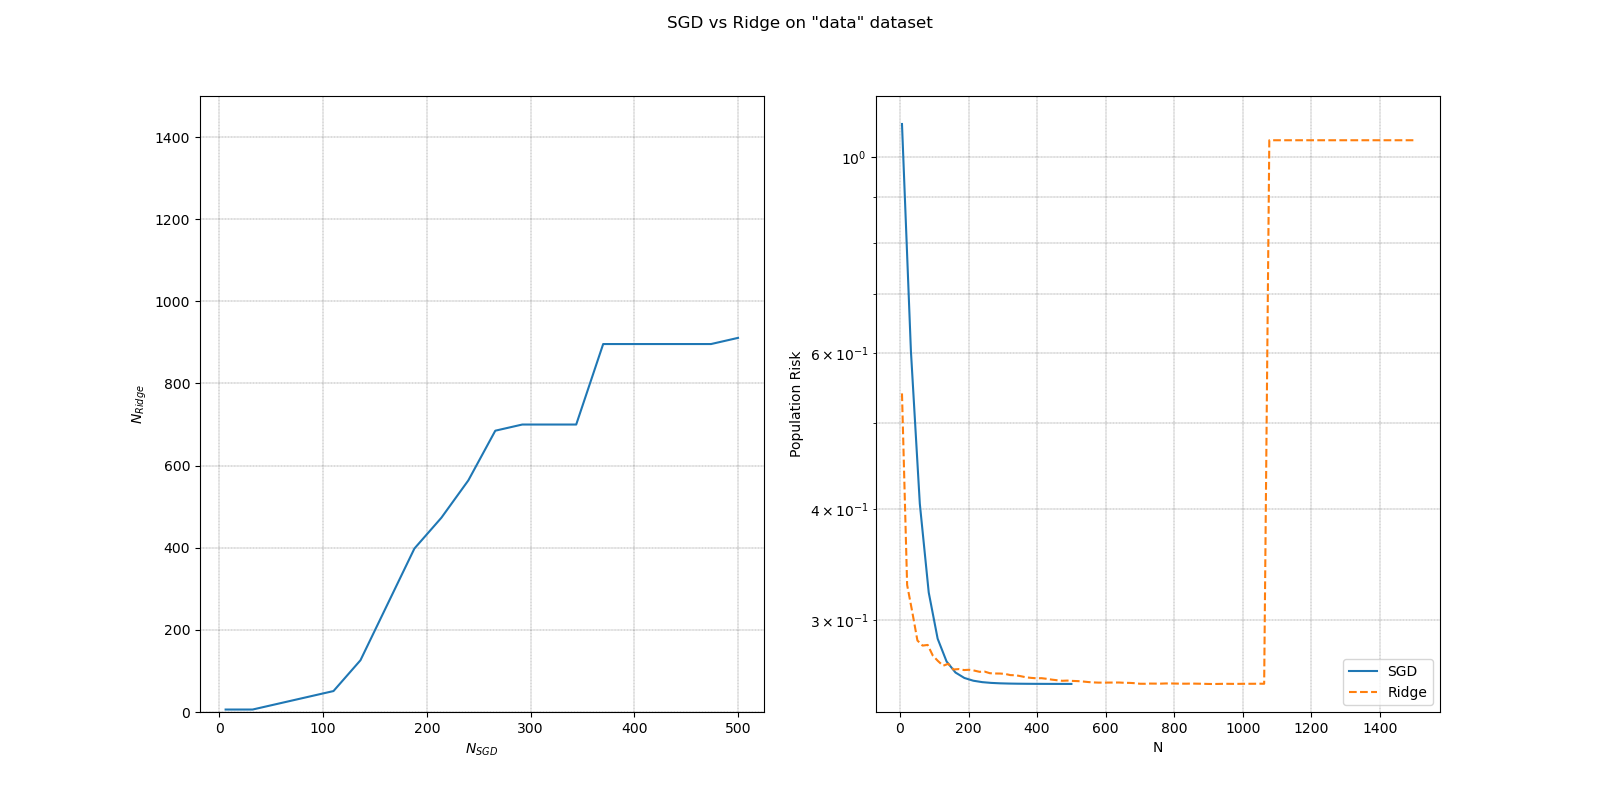
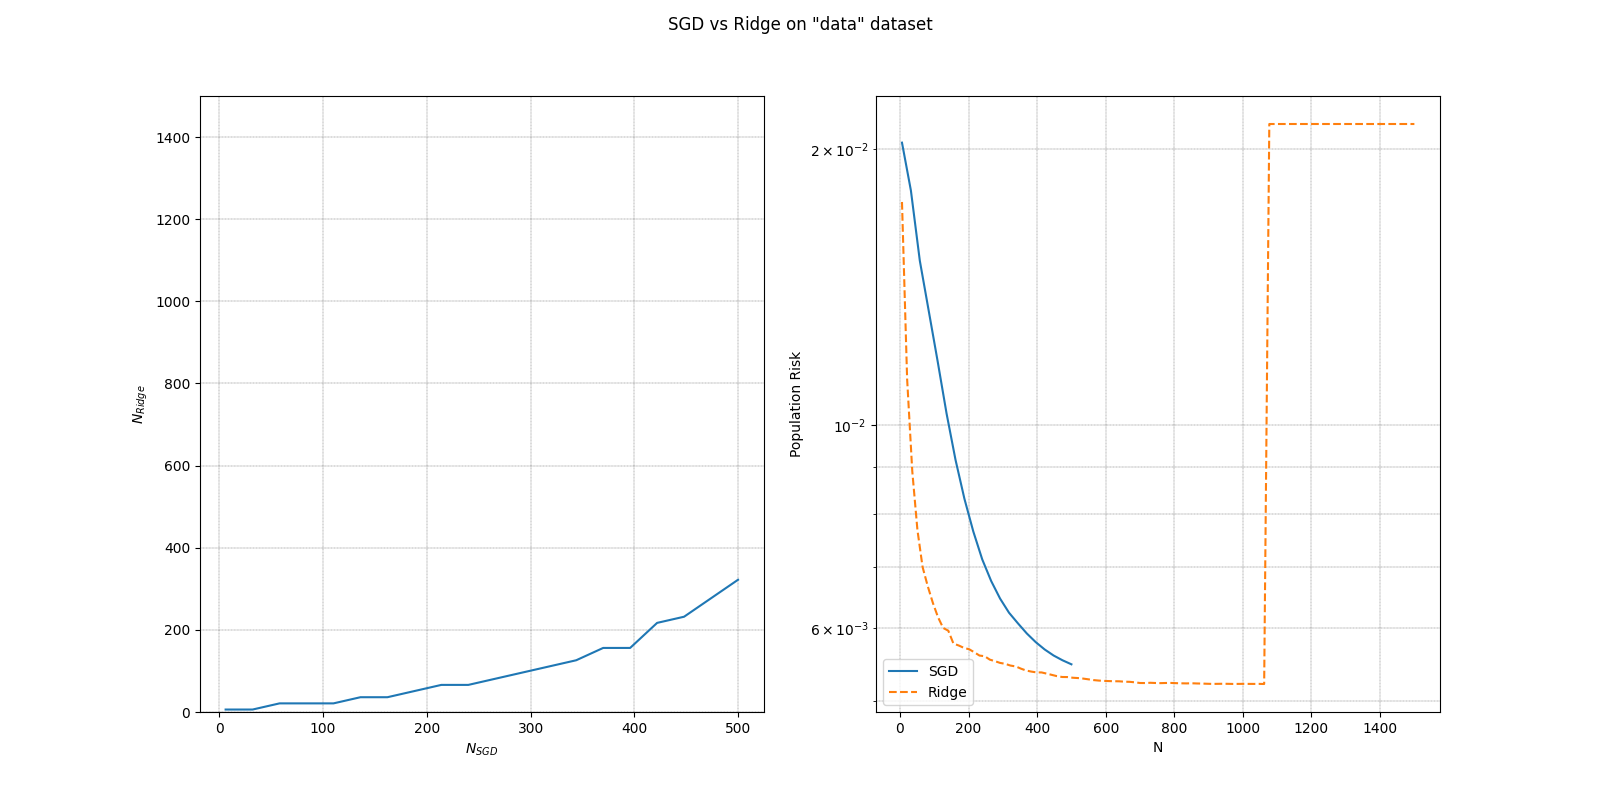
add real-world dataset

diff --git a/benefits_study_real_dataset.py b/benefits_study_real_dataset.py
@@ -101,19 +101,27 @@ else:
     print('Data loaded')
 
 
-fig,axs = plt.subplots(1,2, figsize=(16,8))
-axs[0].plot(n_sgd, y_plot)
-axs[1].plot(n_sgd, sgd_risks, label='SGD')
-axs[1].plot(n_ridge, ridge_risks, linestyle='--', label='Ridge')
-axs[0].grid(color='black', which="both", linestyle='--', linewidth=0.2)
-axs[0].set_xlabel(r'$N_{SGD}$')
-axs[0].set_ylabel(r'$N_{Ridge}$')
-axs[0].set_ylim(0,N_max_ridge)
-axs[1].grid(color='black', which="both", linestyle='--', linewidth=0.2)
-axs[1].legend()
-axs[1].set_yscale('log')
-axs[1].set_xlabel('N')
-axs[1].set_ylabel('Population Risk')
-plt.suptitle(f'SGD vs Ridge on "{DATA_FILENAME}" dataset')
-plt.savefig(SAVE_DIR_FIG+f'benefits_{DATA_FILENAME}')
+# First plot
+plt.figure(figsize=(8, 8))
+plt.plot(n_sgd, y_plot)
+plt.grid(color='black', which="both", linestyle='--', linewidth=0.2)
+plt.xlabel(r'$N_{SGD}$')
+plt.ylabel(r'$N_{Ridge}$')
+plt.ylim(0, N_max_ridge)
+plt.title(f'SGD vs Ridge on Insurance Regression dataset')
+plt.savefig(SAVE_DIR_FIG + 'benefits_Insurance_plot1.png')
 plt.show()
+
+# Second plot
+plt.figure(figsize=(8, 8))
+plt.plot(n_sgd, sgd_risks, label='SGD')
+plt.plot(n_ridge, ridge_risks, linestyle='--', label='Ridge')
+plt.grid(color='black', which="both", linestyle='--', linewidth=0.2)
+plt.legend()
+plt.yscale('log')
+plt.xlabel('N')
+plt.ylabel('Population Risk')
+plt.title(f'SGD vs Ridge on Insurance Regression dataset')
+plt.savefig(SAVE_DIR_FIG + 'benefits_Insurance_plot2.png')
+plt.show()
+

diff --git a/benefits_real_data_set_crossvalidation.py b/benefits_real_data_set_crossvalidation.py
@@ -28,8 +28,9 @@ N_max_sgd = 500
 n_fine_tune_params = 20 # nb of hyperparameters tested
 n_fine_tune_params_ridge= n_fine_tune_params*10
 n_fine_tune_params_sgd=n_fine_tune_params
-lambdas_ = np.logspace(-1,1,n_fine_tune_params_ridge, base=10.0) # range of parameters
-learning_rates = np.logspace(-3,-1,n_fine_tune_params_sgd)
+lambdas_ = np.logspace(-1,3,n_fine_tune_params_ridge, base=10.0) # range of parameters
+learning_rates = np.logspace(-3,0,n_fine_tune_params_sgd)
+
 
 intern_dim = 10
 depth = -1 # Single Layer

diff --git a/benefits_real_data_set_data_generation.py b/benefits_real_data_set_data_generation.py
@@ -148,7 +148,7 @@ if __name__=='__main__':
                           output_Tensor,
                           lossFct = nn.MSELoss(),
                           optimizer=optimizer,
-                          epochs=N_max_ridge,
+                          epochs=min(N_max_ridge,data_i.shape[0]),
                           batch_size=None,
                           return_vals=False,
                           return_ws=True,
